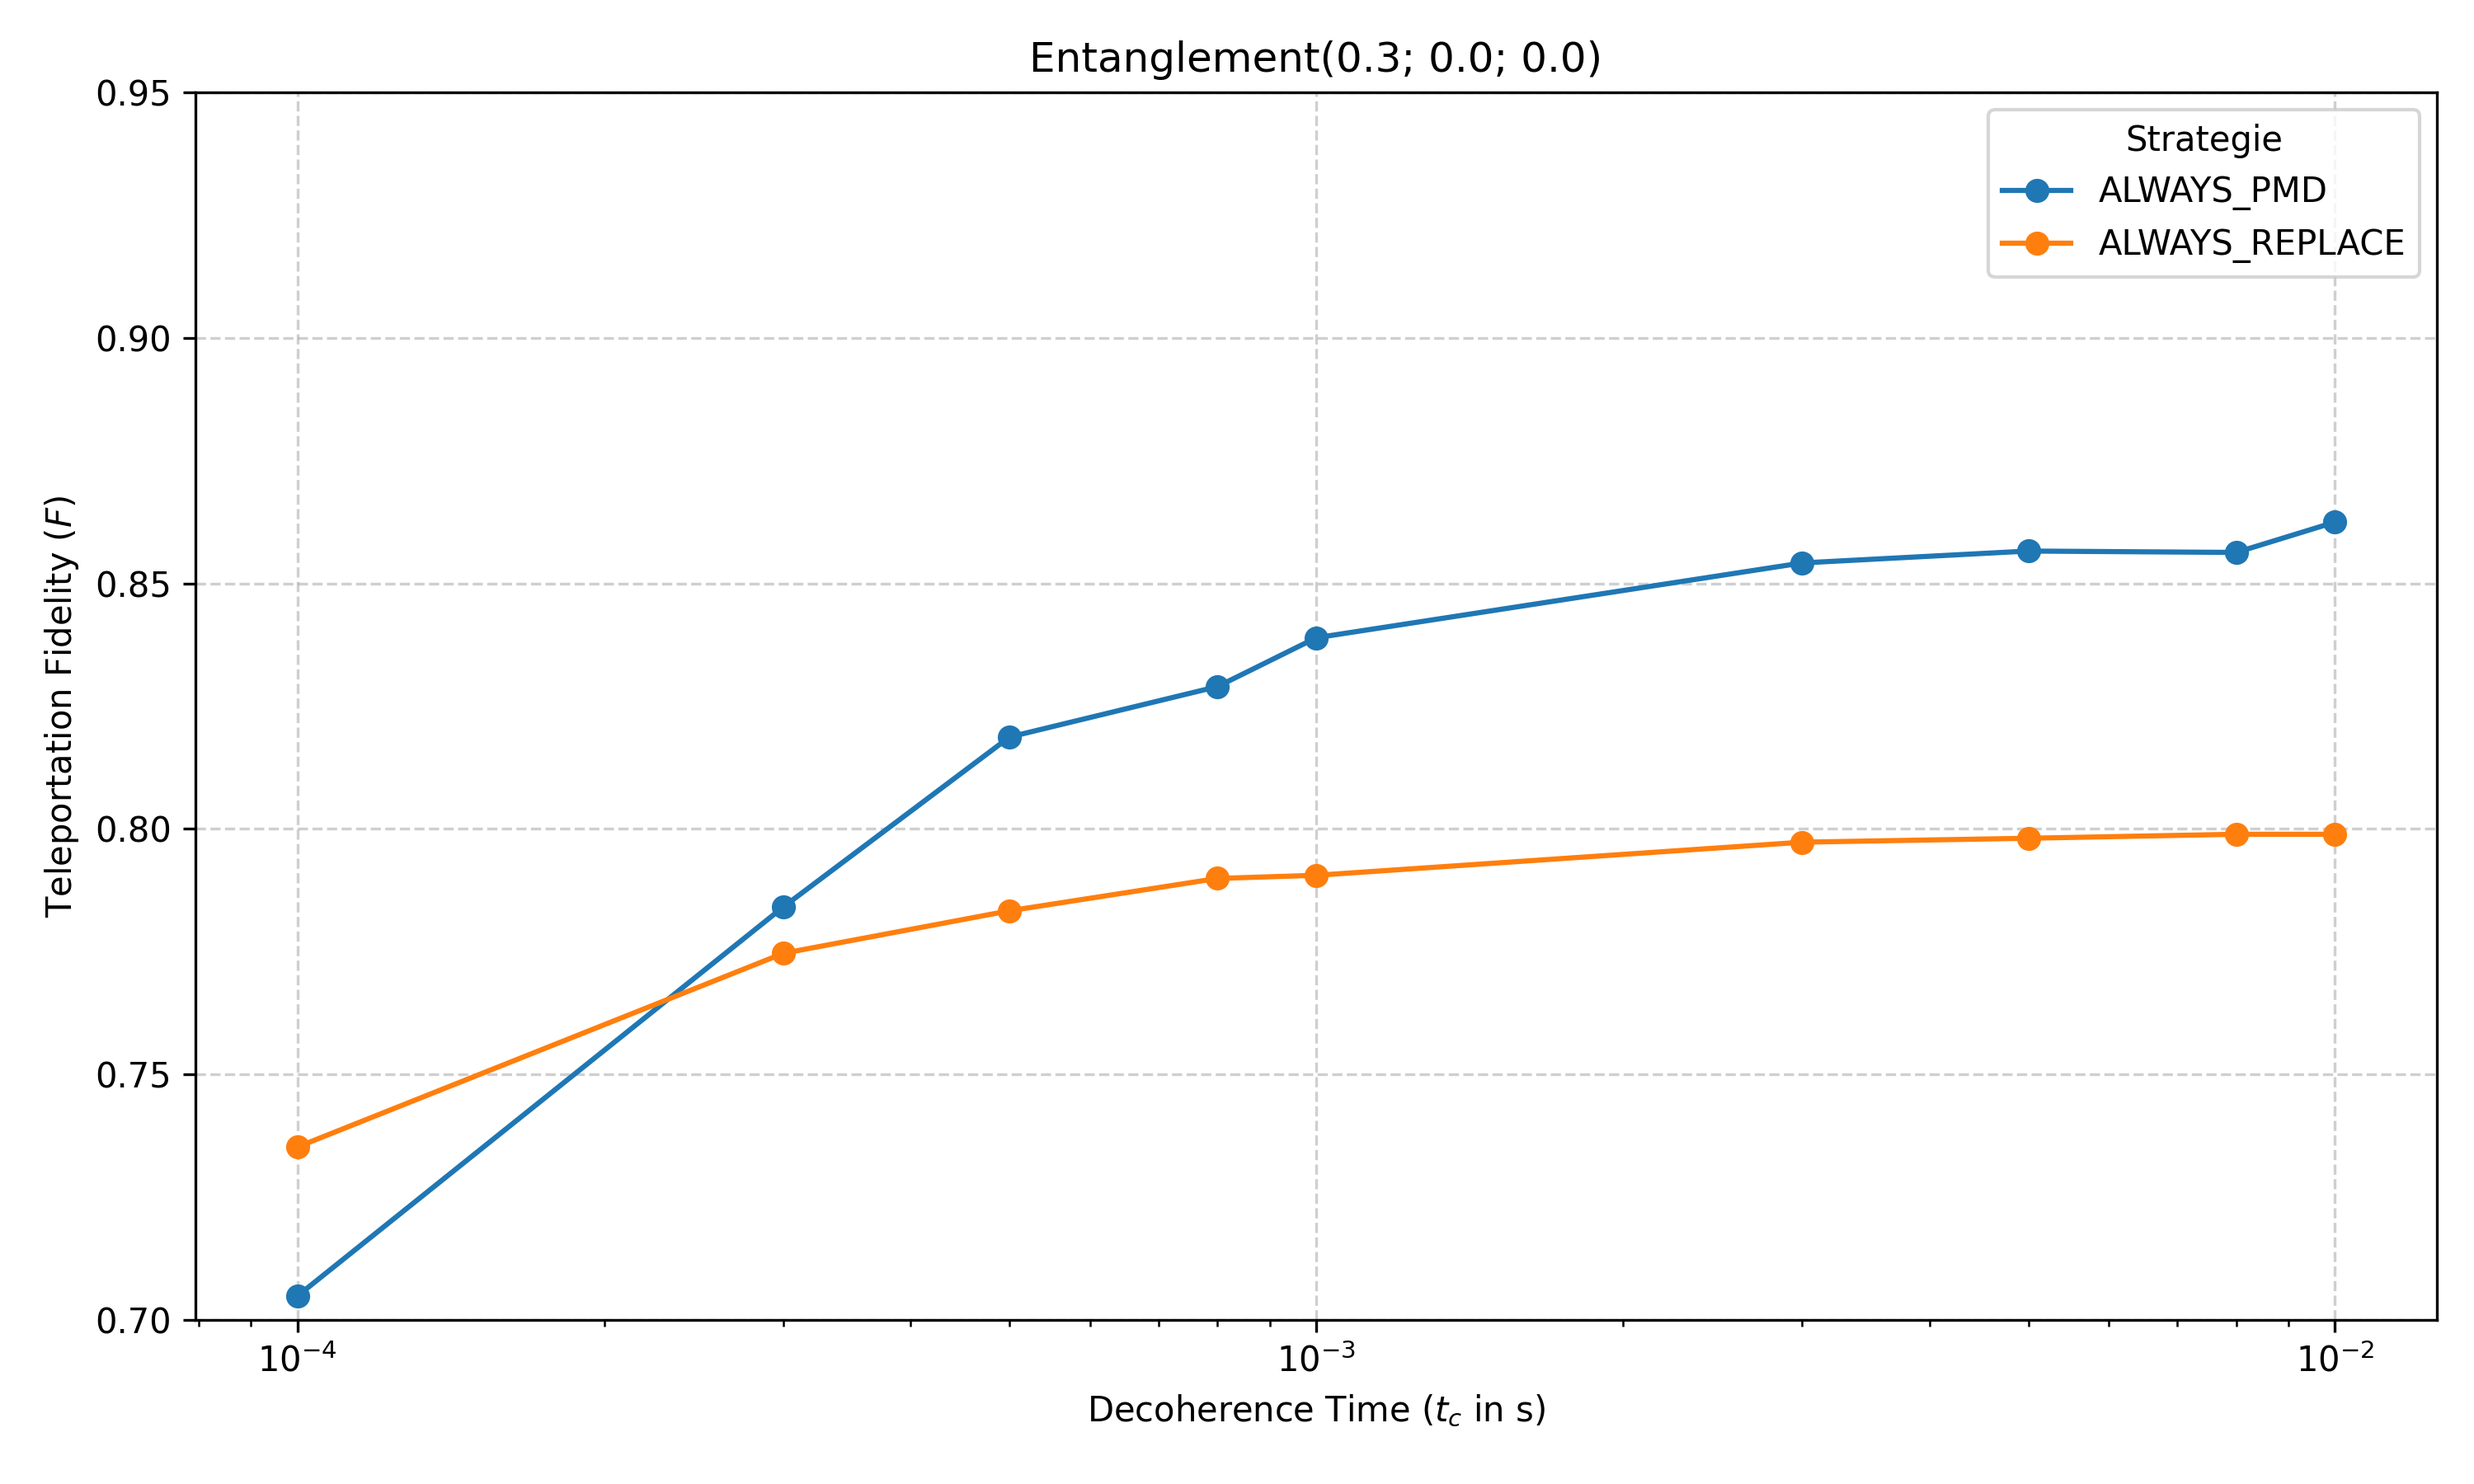
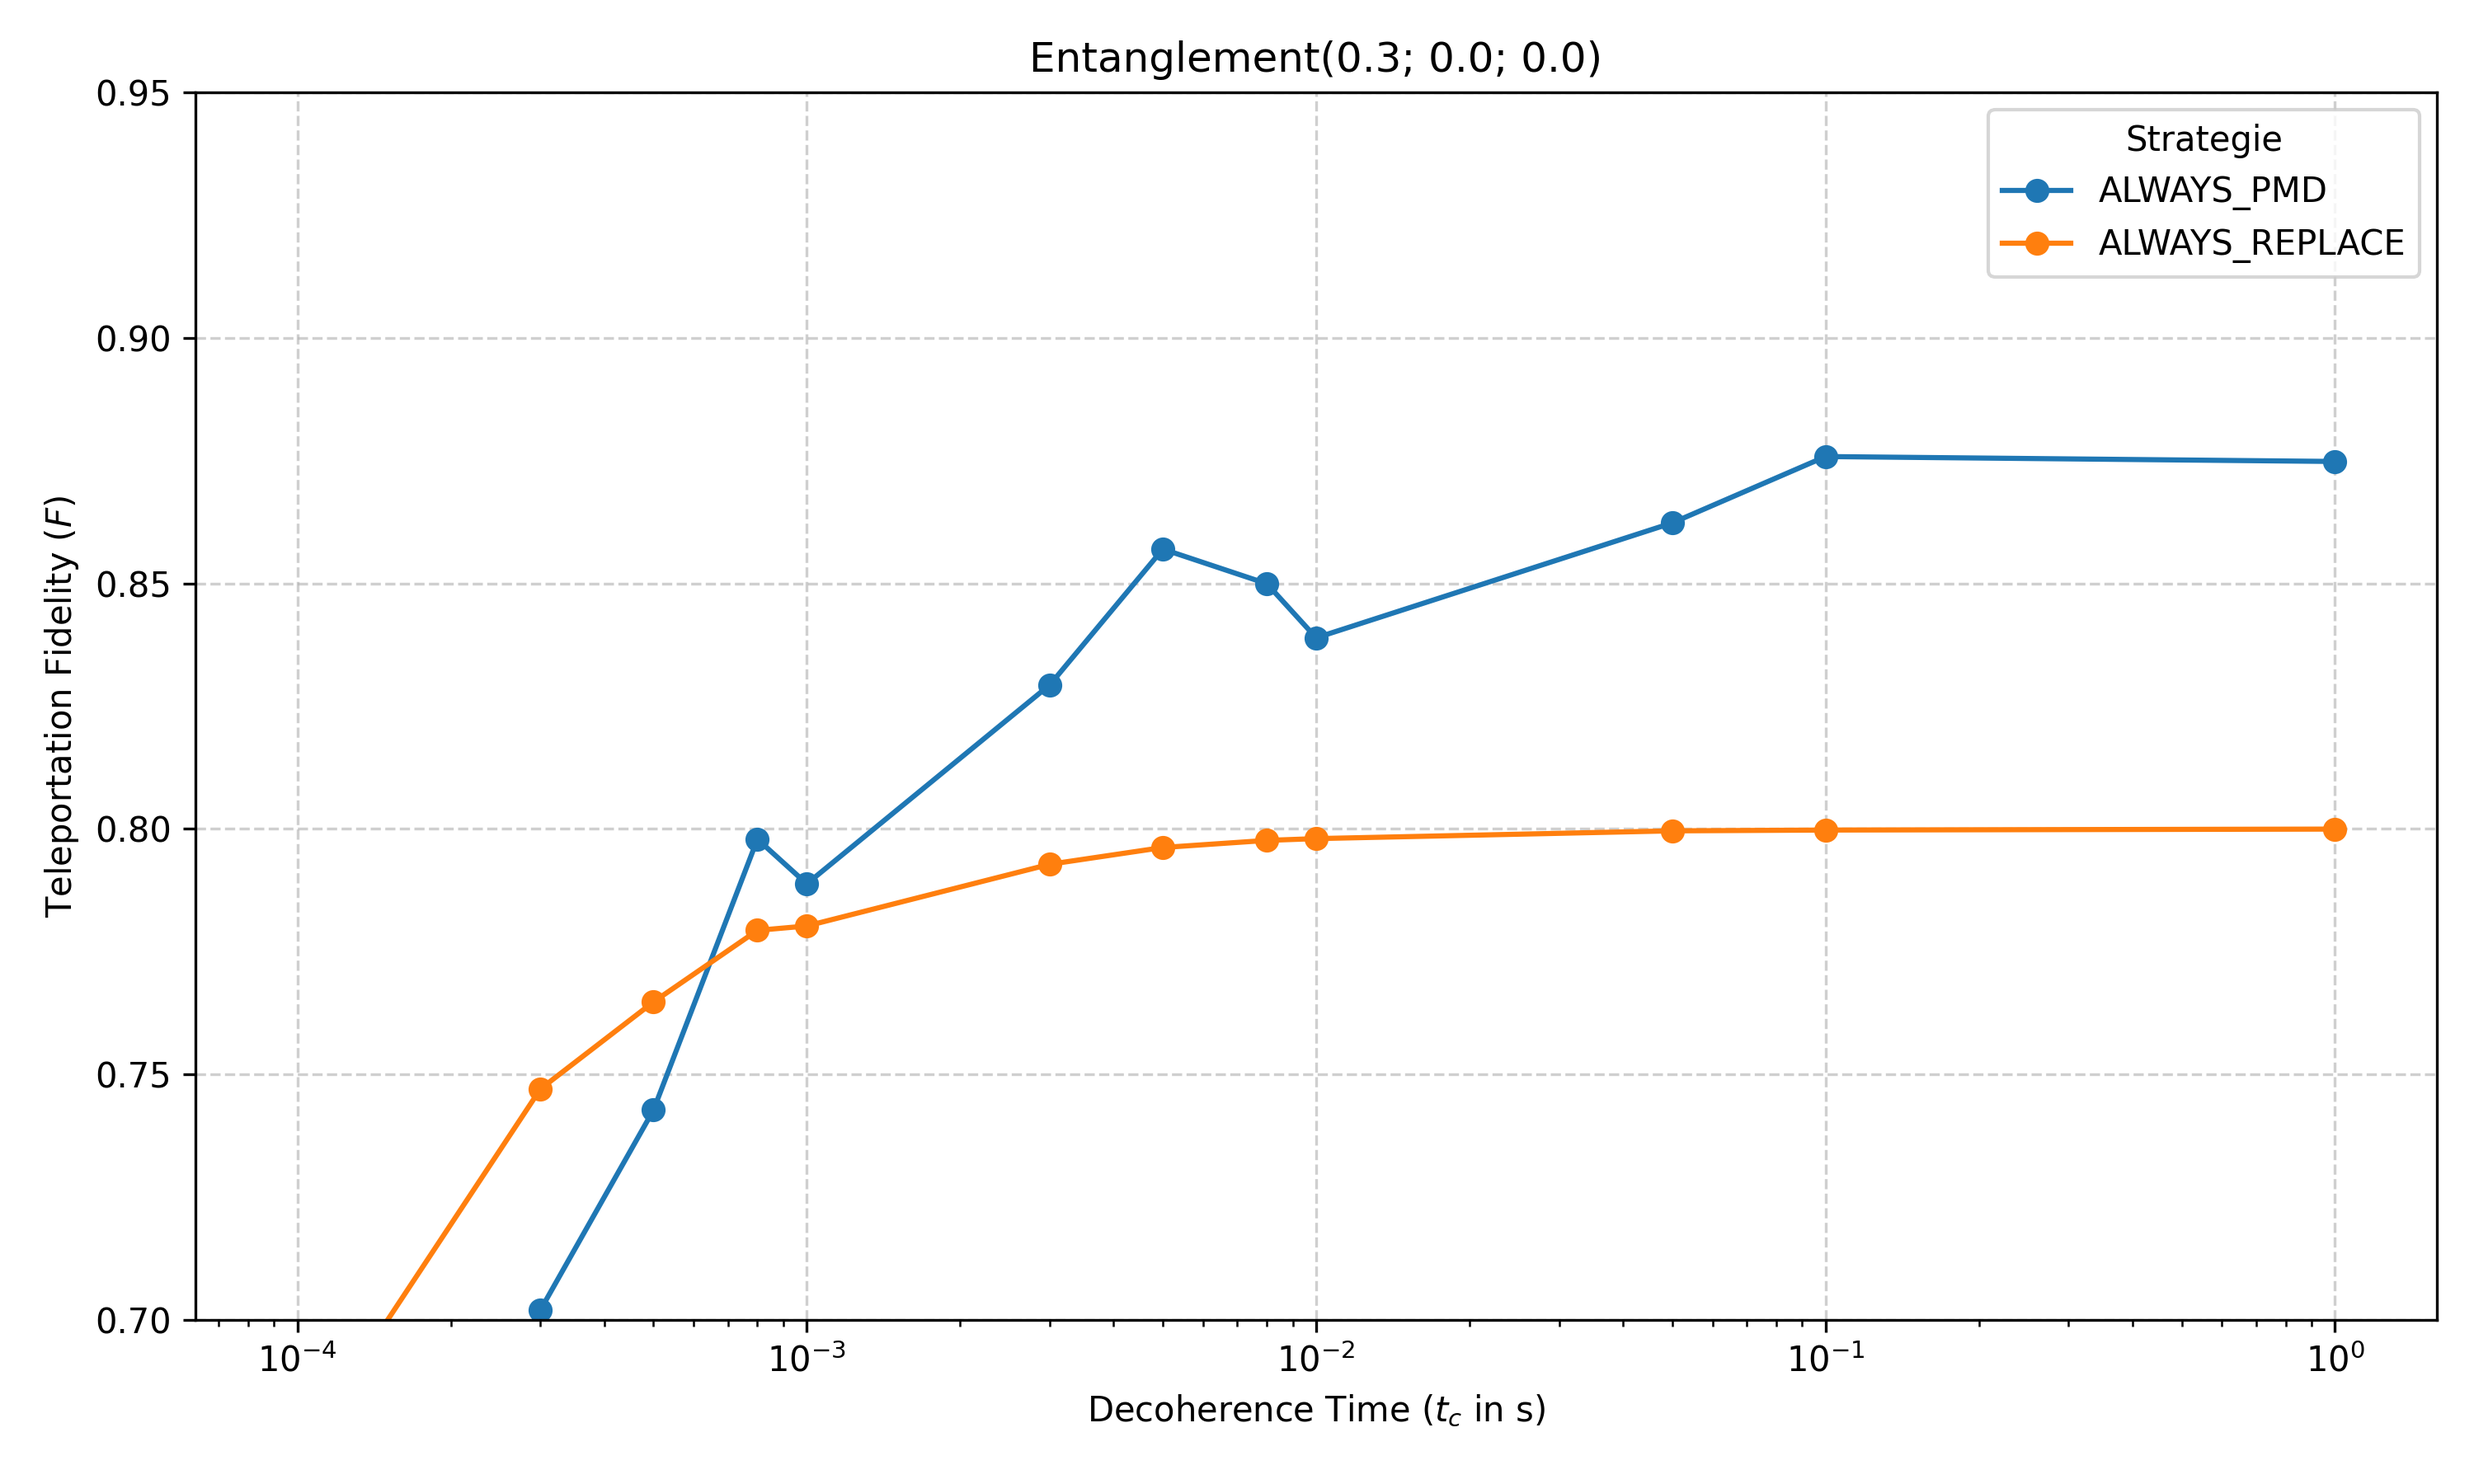
c

diff --git a/src/purify/my_constants.py b/src/purify/my_constants.py
@@ -1,11 +1,15 @@
 from purify.my_enums import Strategy
 
-ENTANGLEMENT_GENERATION_COUNT = 100000
+ENTANGLEMENT_GENERATION_COUNT = 50000
 
 # Times between bernouli trials for entanglement generation. in [sec]
-DELTA_T = 1.66782e-5
+# DELTA_T =   1.66782e-5
+
+LENGTH = 5000
+C = 2e8
+DELTA_T = LENGTH/C
 # Success probability of entangelement generation
-P_G = 0.4723665527
+P_G = 0.3047
 
 
 QUBIT_ENTANGLEMENT_FACTOR = 100
@@ -30,7 +34,7 @@ STRATEGIES = [
 
 # Decoherence times to include in the simulation in secs
 DECOHERENCE_TIMES = [
-        #0.00001,
+        # 0.00001,
         0.0001,
         0.0003,
         0.0005,
@@ -40,7 +44,7 @@ DECOHERENCE_TIMES = [
         0.005,
         0.008,
         0.01,
-        # 0.05,
-        # 0.1,
-        # 1,
+        0.05,
+        0.1,
+        1,
     ]

diff --git a/src/purify/my_simulation.py b/src/purify/my_simulation.py
@@ -31,7 +31,8 @@ class Simulation:
             DELTA_T for _ in range(ENTANGLEMENT_GENERATION_COUNT)
         ]
 
-        self.request_samples = rng.exponential(
+        self.request_samples = rng.gamma(
+            shape=2,
            scale=1/QUBIT_ARRIVAL_SCALE,
            size= round(ENTANGLEMENT_GENERATION_COUNT / QUBIT_ENTANGLEMENT_FACTOR)
         )

diff --git a/README.md b/README.md
@@ -2,3 +2,8 @@
 
 
 Excecute with "uv run main" 
+
+
+
+
+- try for different lambdas and initial fidelities, analyze jump functions and maybe find optimal jump function for certain lambda values. for fixed t_c and fixed pumping protocol test different pumping probabilities.
